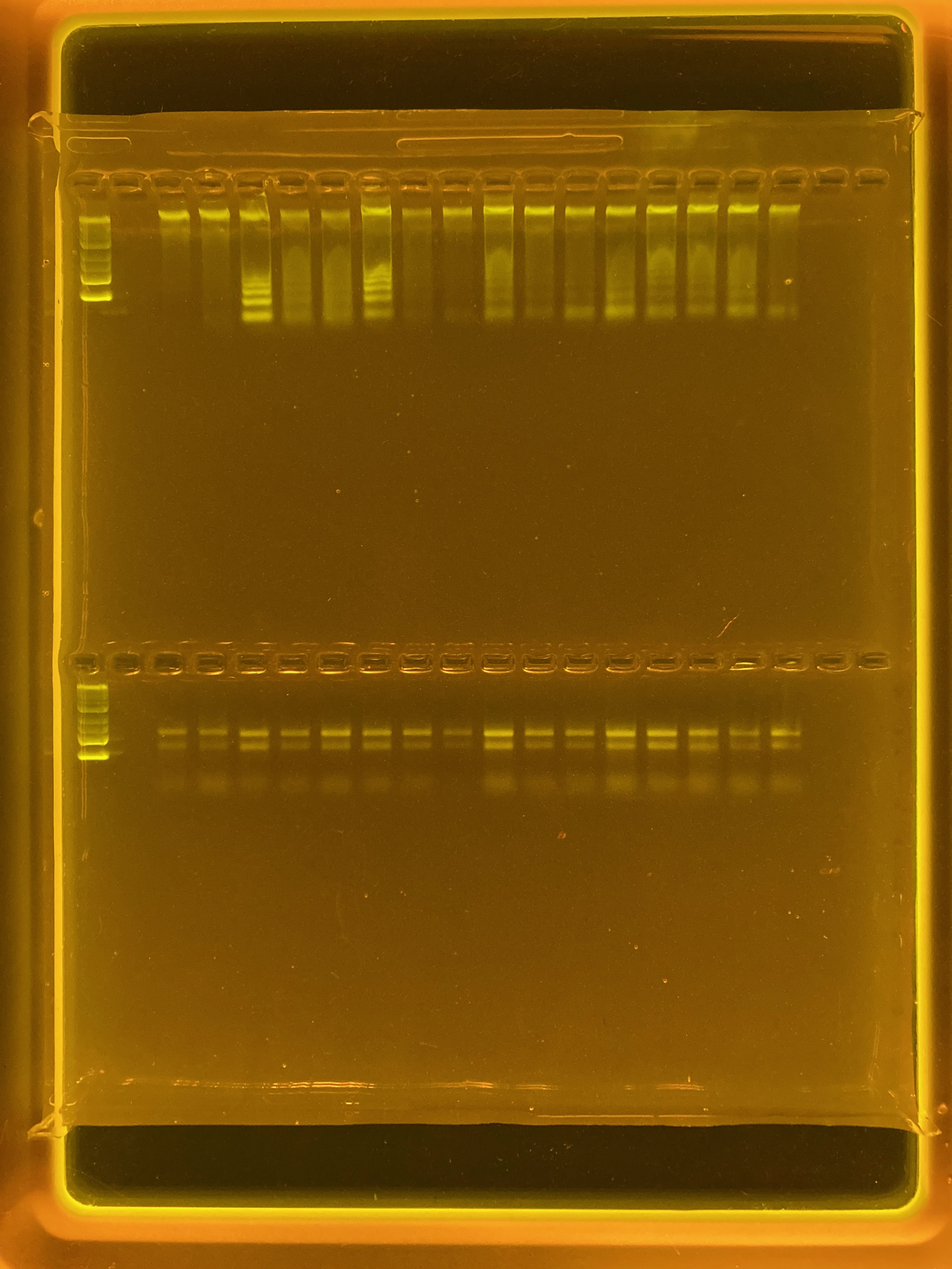
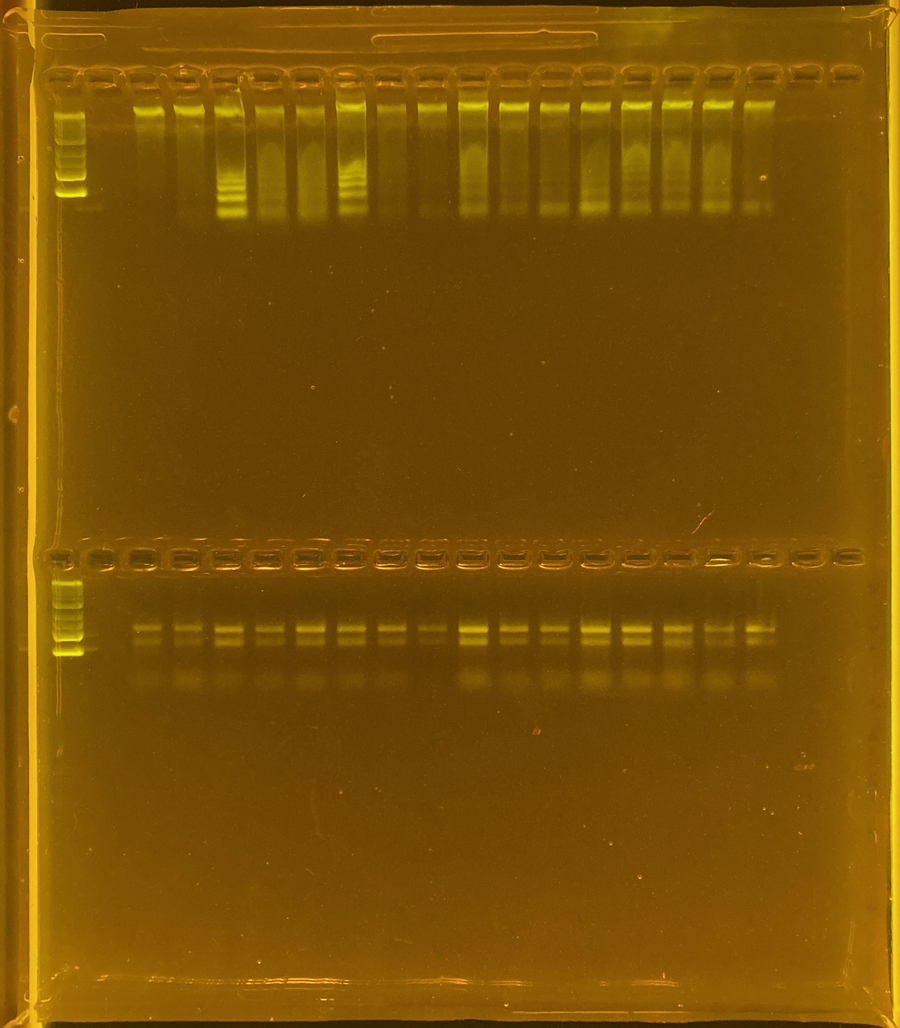
paxgene decalc update

diff --git a/_posts/2023-04-13-Paxgene-Decalcification-Sections-Test.md b/_posts/2023-04-13-Paxgene-Decalcification-Sections-Test.md
@@ -94,6 +94,26 @@ RNA Extraction Test
 - EDTA decalcifcation - in straight 0.5 M EDTA
 - EDTA decalcifcation, on ice
 
+### Qubit Results
+
+- Used Broad range dsDNA and RNA Qubit [Protocol](https://zdellaert.github.io/ZD_Putnam_Lab_Notebook/Qubit-Protocol/)
+- All samples read twice, standard only read once
+
+| colony_id | DNA_QBIT_AVG | RNA_QBIT_AVG |
+|-----------|--------------|--------------|
+| control   | 0         | 0         |
+| control + cold room      | 0 | 14.1  | 
+| EDTA      | 0         | 0         | 
+| EDTA + cold room  | 0 | 0        | 
+| HCl       | 0         | 0         | 
+| HCl + cold room    | 0     | 0  | 
+
+
+## DNA and RNA Quality Check: Gel, using [Kristina's gel protocol at the bottom of this page.](https://zdellaert.github.io/ZD_Putnam_Lab_Notebook/Protocols_Zymo_Quick_DNA_RNA_Miniprep_Plus/)
+
+![2023-04-24-gel.JPG](https://github.com/zdellaert/ZD_Putnam_Lab_Notebook/blob/master/images/gels/2023-04-24-gel.JPG?raw=true)
+
+
 -------
 
 Questions:
